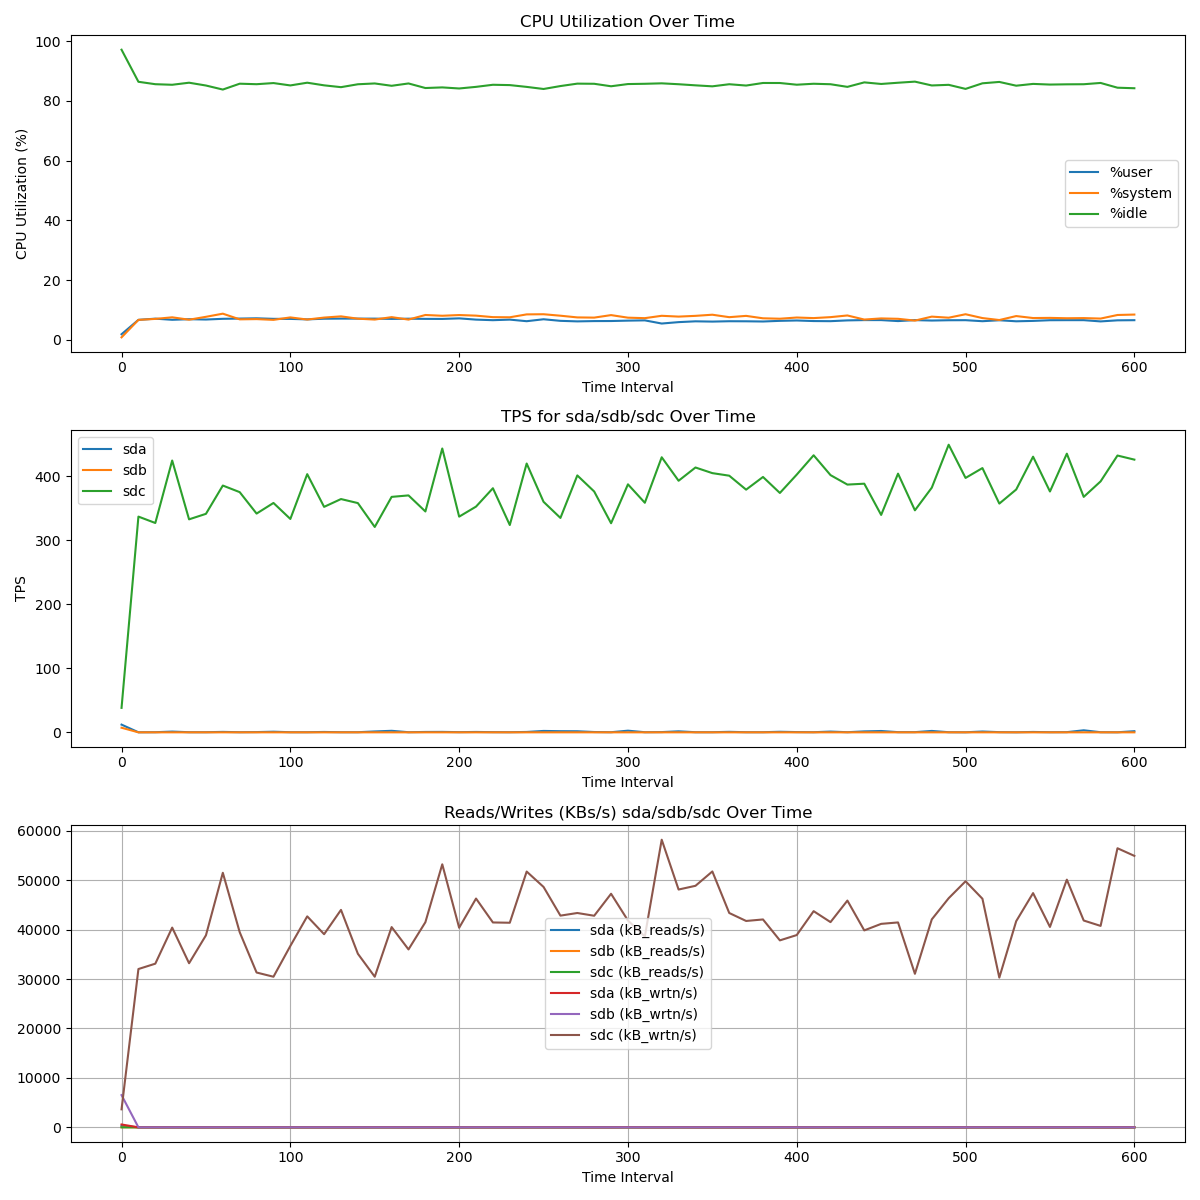
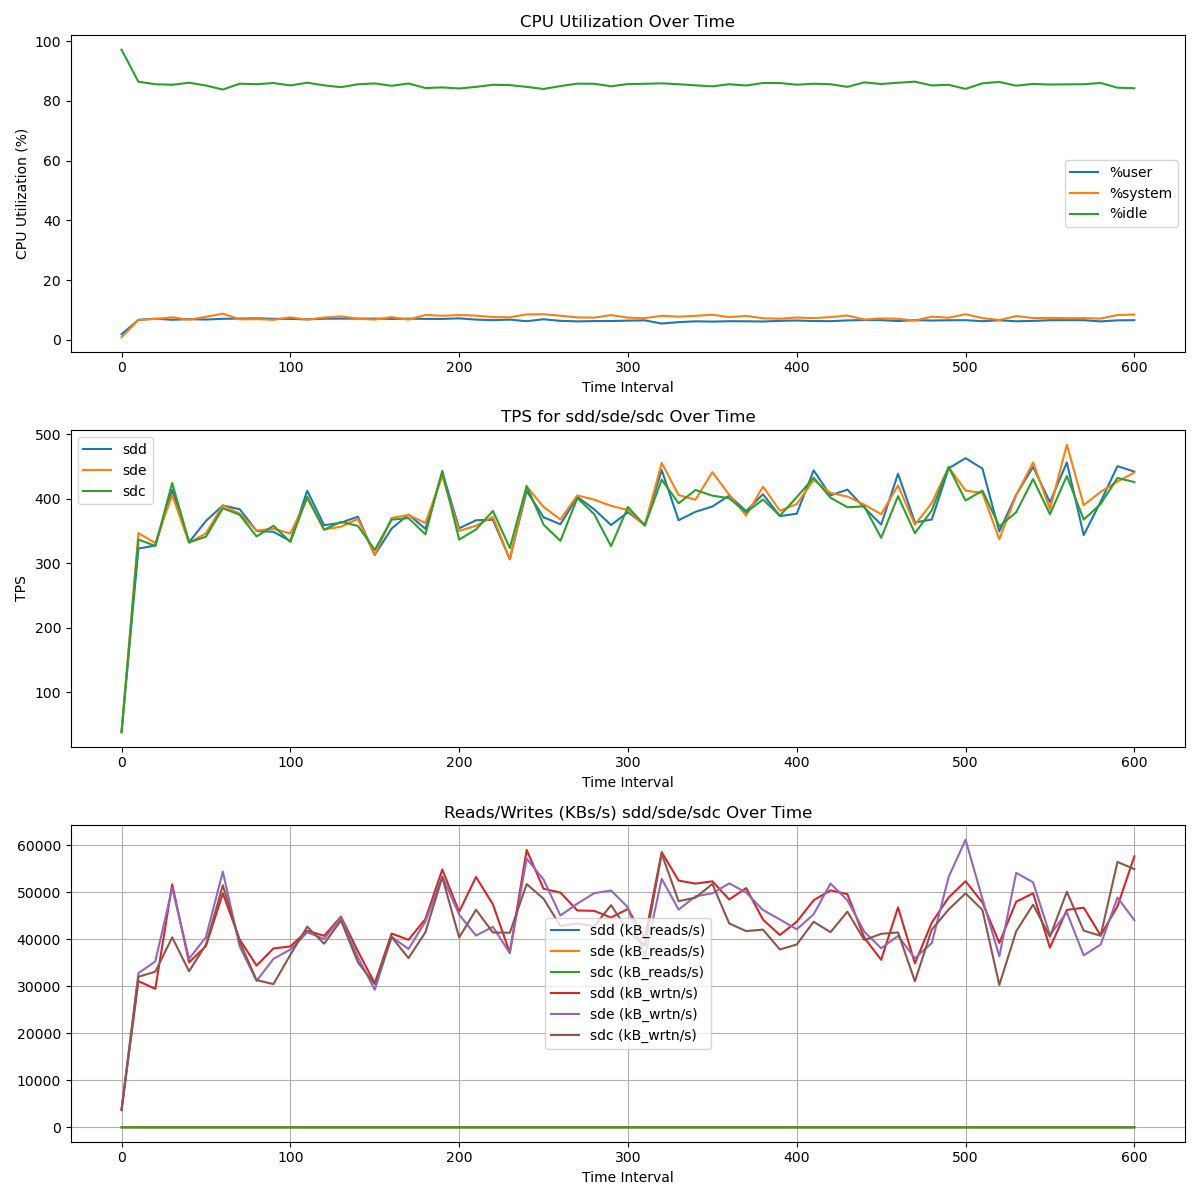
.

diff --git a/postgres-with-zfs-on-docker-27-02-2025-remote-client/delay_500us/process_outputs.py b/postgres-with-zfs-on-docker-27-02-2025-remote-client/delay_500us/process_outputs.py
@@ -65,17 +65,17 @@ def main():
     time_intervals_text = list(range(0, len(cpu_user)*10, 10))
     
 
-    # Extract TPS data for sda, sdb, and sdc
-    tps_sda = [entry["tps"] for entry in device_data if entry["Device"] == "sda"]
-    tps_sdb = [entry["tps"] for entry in device_data if entry["Device"] == "sdb"]
+    # Extract TPS data for sdd, sde, and sdc
+    tps_sdd = [entry["tps"] for entry in device_data if entry["Device"] == "sdd"]
+    tps_sde = [entry["tps"] for entry in device_data if entry["Device"] == "sde"]
     tps_sdc = [entry["tps"] for entry in device_data if entry["Device"] == "sdc"]
 
-    # Extract kB_read/s  kB_wrtn/s data for sda, sdb, and sdc
-    readspers_sda = [entry["kB_reads/s"] for entry in device_data if entry["Device"] == "sda"]
-    readspers_sdb = [entry["kB_reads/s"] for entry in device_data if entry["Device"] == "sdb"]
+    # Extract kB_read/s  kB_wrtn/s data for sdd, sde, and sdc
+    readspers_sdd = [entry["kB_reads/s"] for entry in device_data if entry["Device"] == "sdd"]
+    readspers_sde = [entry["kB_reads/s"] for entry in device_data if entry["Device"] == "sde"]
     readspers_sdc = [entry["kB_reads/s"] for entry in device_data if entry["Device"] == "sdc"]
-    writespers_sda = [entry["kB_wrtn/s"] for entry in device_data if entry["Device"] == "sda"]
-    writespers_sdb = [entry["kB_wrtn/s"] for entry in device_data if entry["Device"] == "sdb"]
+    writespers_sdd = [entry["kB_wrtn/s"] for entry in device_data if entry["Device"] == "sdd"]
+    writespers_sde = [entry["kB_wrtn/s"] for entry in device_data if entry["Device"] == "sde"]
     writespers_sdc = [entry["kB_wrtn/s"] for entry in device_data if entry["Device"] == "sdc"]
 
     # Plot CPU utilization
@@ -89,29 +89,29 @@ def main():
     plt.title("CPU Utilization Over Time")
     plt.legend()
 
-    # Plot TPS for sda, sdb, and sdc
+    # Plot TPS for sdd, sde, and sdc
     plt.subplot(3, 1, 2)
-    plt.plot(time_intervals_text, tps_sda, label="sda")
-    plt.plot(time_intervals_text, tps_sdb, label="sdb")
+    plt.plot(time_intervals_text, tps_sdd, label="sdd")
+    plt.plot(time_intervals_text, tps_sde, label="sde")
     plt.plot(time_intervals_text, tps_sdc, label="sdc")
     plt.xlabel("Time Interval")
     plt.ylabel("TPS")
-    plt.title("TPS for sda/sdb/sdc Over Time")
+    plt.title("TPS for sdd/sde/sdc Over Time")
     plt.legend()
     #plt.xticks(time_intervals, time_intervals_text)  # Set custom x-axis labels
 
     
-    # Plot TPS for sda, sdb, and sdc
+    # Plot TPS for sdd, sde, and sdc
     plt.subplot(3, 1, 3)
-    plt.plot(time_intervals_text, readspers_sda, label="sda (kB_reads/s)")
-    plt.plot(time_intervals_text, readspers_sdb, label="sdb (kB_reads/s)")
+    plt.plot(time_intervals_text, readspers_sdd, label="sdd (kB_reads/s)")
+    plt.plot(time_intervals_text, readspers_sde, label="sde (kB_reads/s)")
     plt.plot(time_intervals_text, readspers_sdc, label="sdc (kB_reads/s)")
-    plt.plot(time_intervals_text, writespers_sda, label="sda (kB_wrtn/s)")
-    plt.plot(time_intervals_text, writespers_sdb, label="sdb (kB_wrtn/s)")
+    plt.plot(time_intervals_text, writespers_sdd, label="sdd (kB_wrtn/s)")
+    plt.plot(time_intervals_text, writespers_sde, label="sde (kB_wrtn/s)")
     plt.plot(time_intervals_text, writespers_sdc, label="sdc (kB_wrtn/s)")
     plt.xlabel("Time Interval")
     #plt.ylabel("Reads (KB) and writes (KB)")
-    plt.title("Reads/Writes (KBs/s) sda/sdb/sdc Over Time")
+    plt.title("Reads/Writes (KBs/s) sdd/sde/sdc Over Time")
     plt.legend()
 
     # Show the plots
